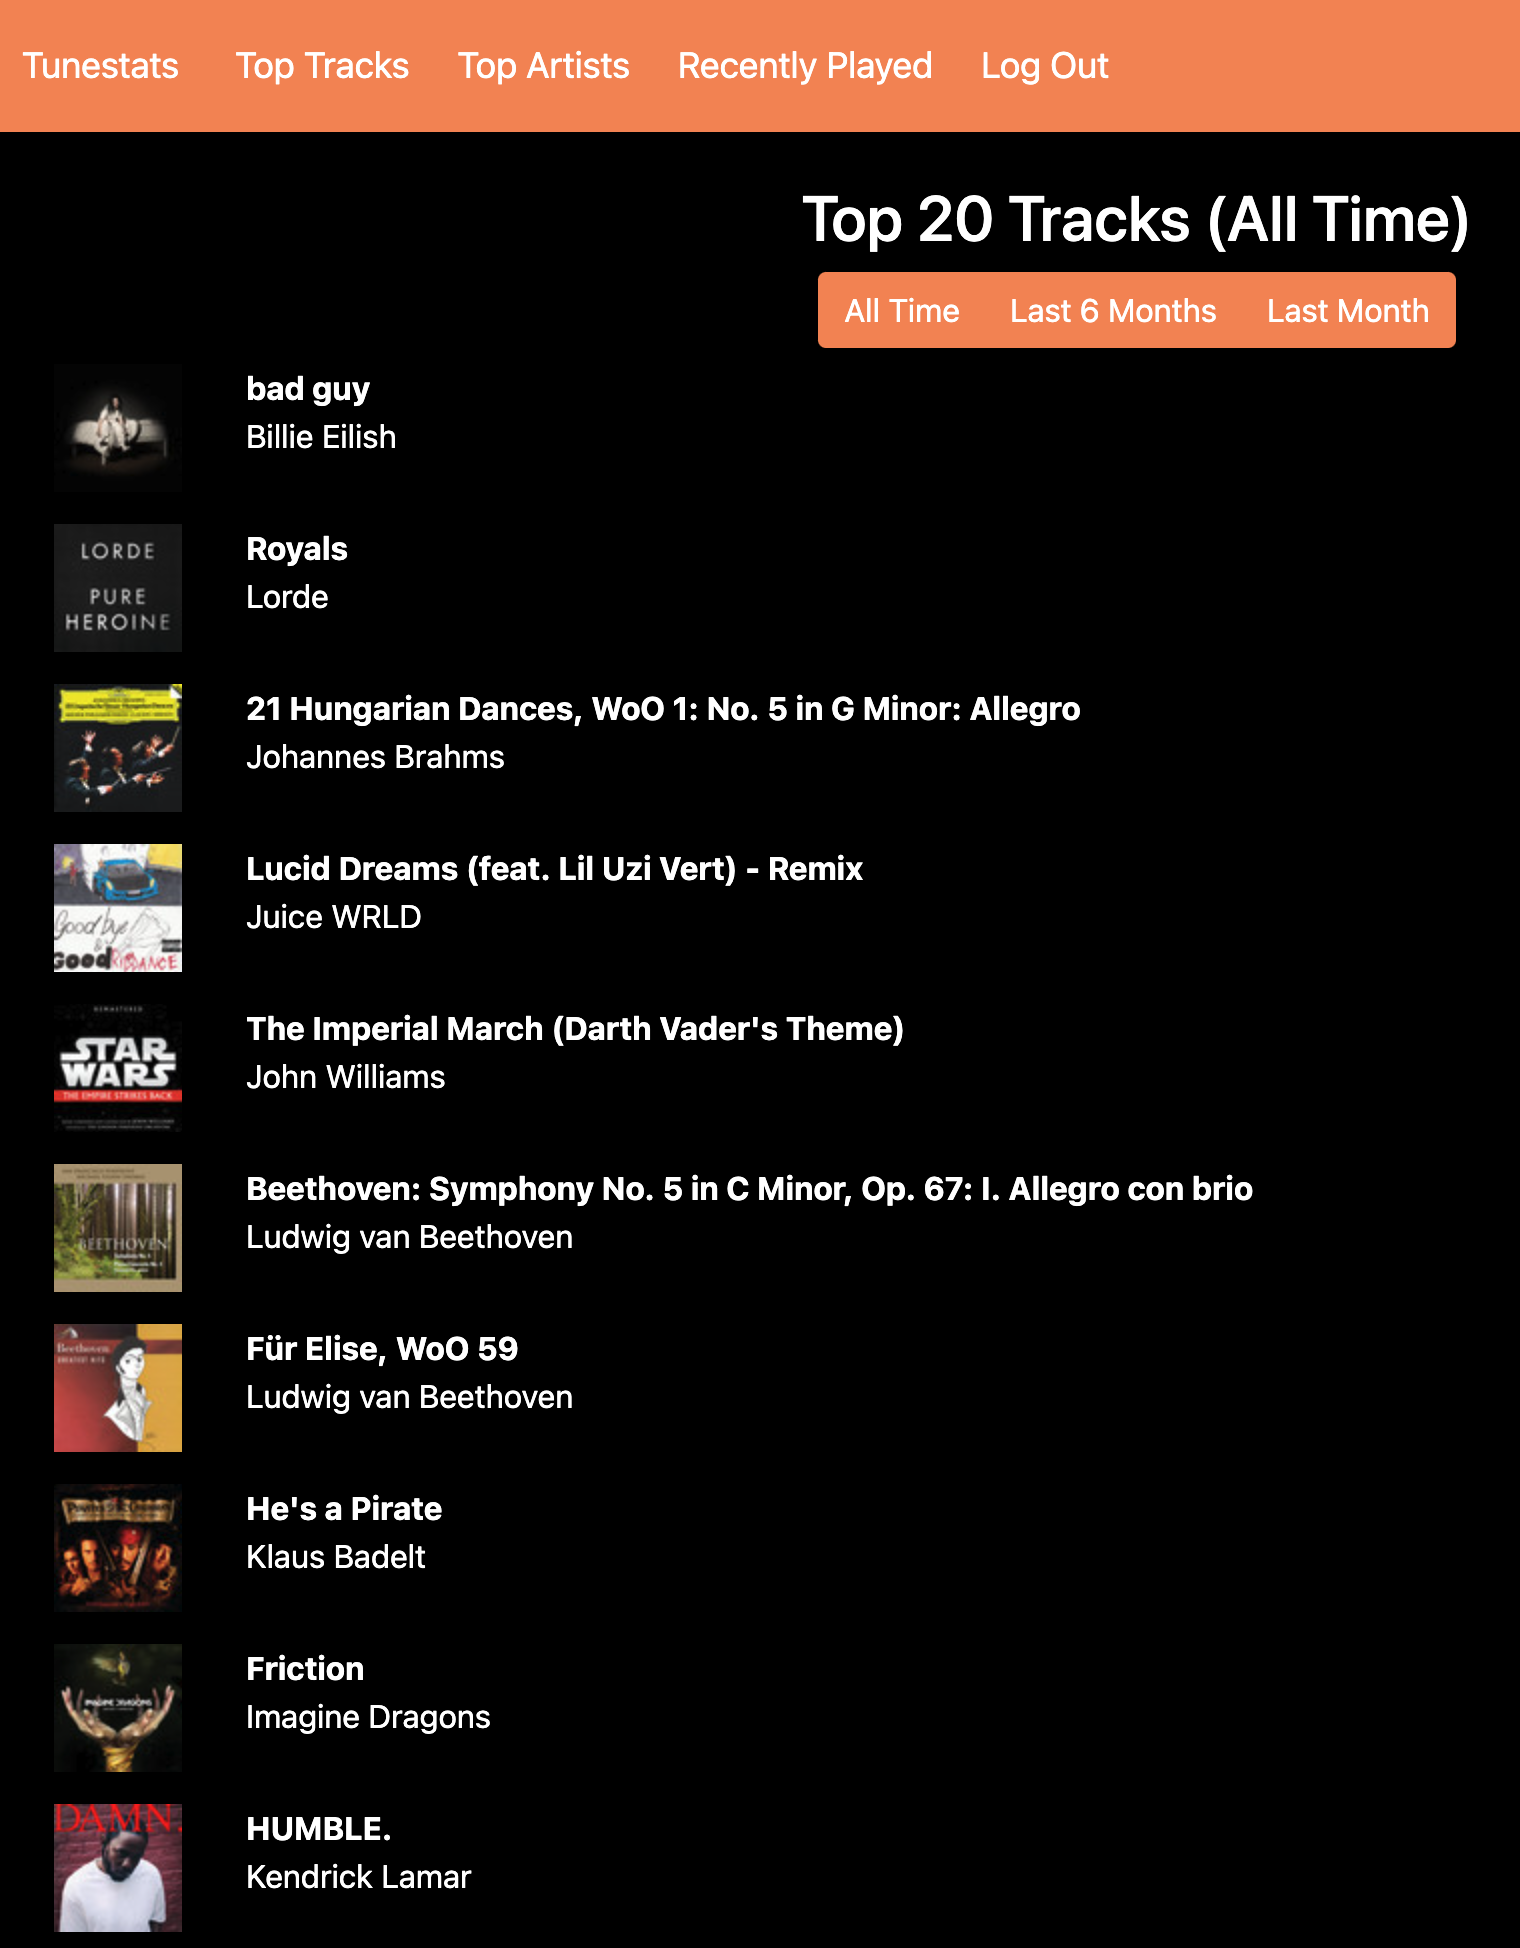
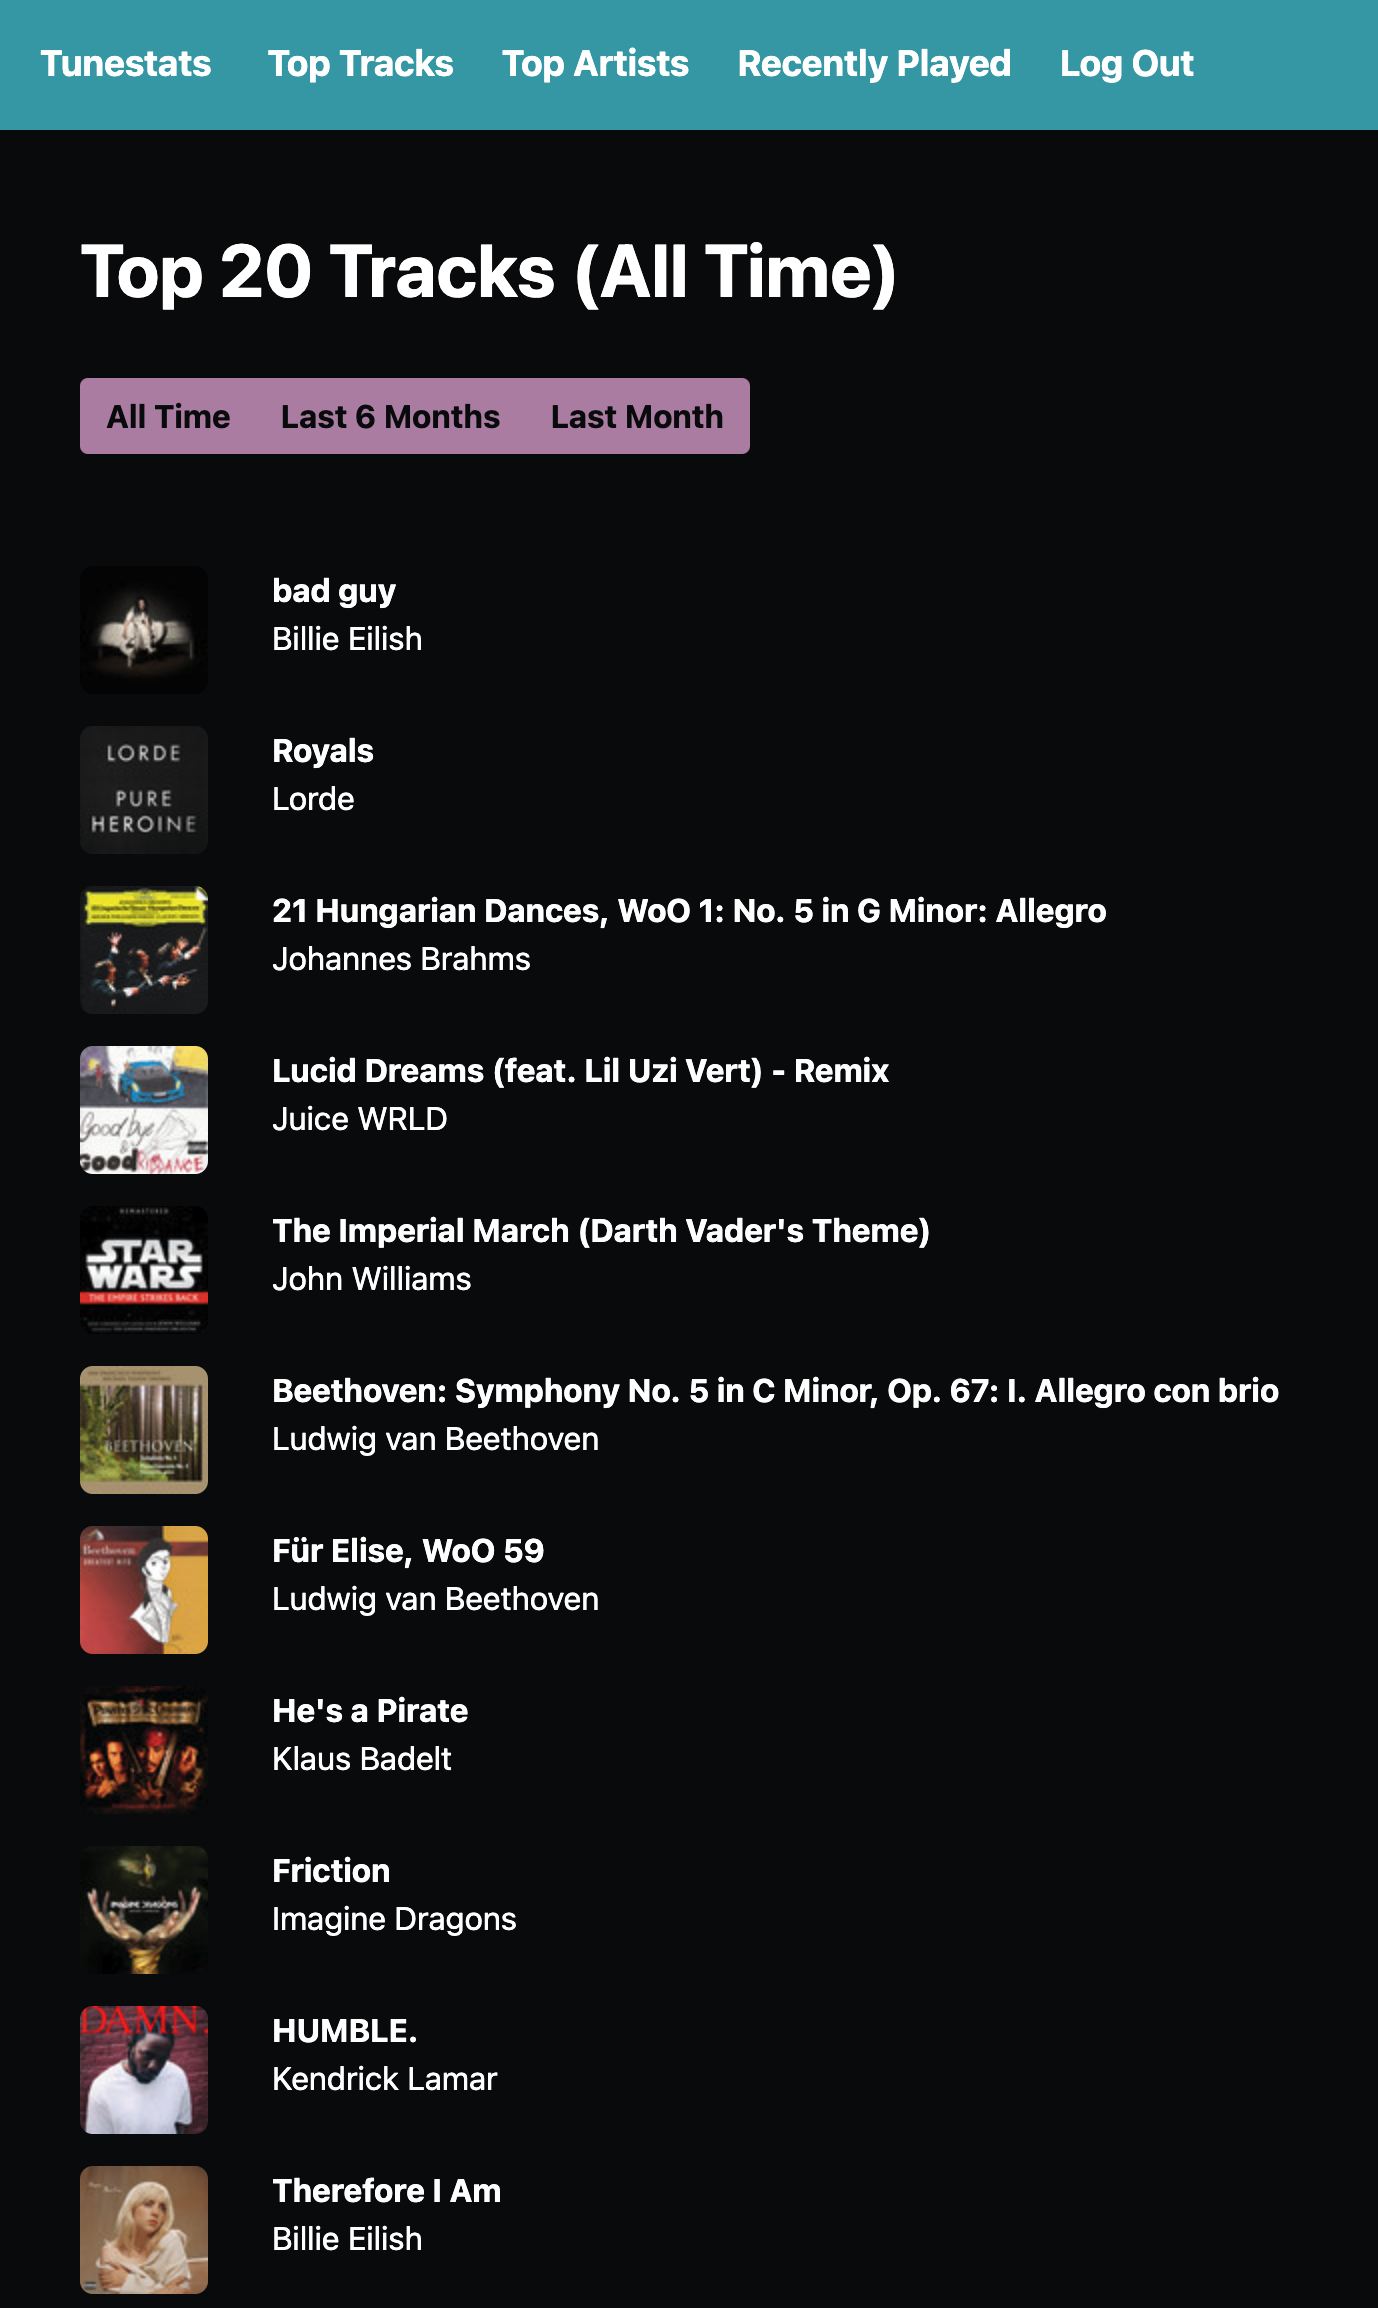
slighy UI edits

Changed region(s): [[0.0, 0.0, 1.0, 1.0], [0.312, 0.8316, 0.3433, 0.8624]]

diff --git a/client/src/assets/style.css b/client/src/assets/style.css
@@ -13,16 +13,17 @@ nav, a{
   background-color: #39A2AE !important;
 }
 
+nav {
+  font-weight: bold;
+}
+
 img {
-  border-radius: 5%;
+  border-radius: 10%;
 }
 
 h1 {
   font-size: 3.2em;
-}
-
-h2 {
-  text-align: center;
+  font-weight: bold;
 }
 
 li {
@@ -30,7 +31,7 @@ li {
 }
 
 li:hover {
-  color: #39A2AE !important;
+  color: #B486AB !important;
 }
 
 a {
@@ -65,7 +66,7 @@ svg:hover {
 }
 
 .greentext {
-  color: #39A2AE;
+  color: #B486AB;
   font-size: 20px !important;
 }
 
@@ -81,7 +82,12 @@ svg:hover {
 
 .login-button {
   font-size: 20px !important;
-  border-color: #050609;
+  font-weight: bold;
+  color: #050609 !important;
+}
+
+.login-button:hover {
+  color: #ffffff !important;
 }
 
 .nav:hover {
@@ -95,9 +101,37 @@ p, a {
 
 .btn-clr {
   background-color: #B486AB;
-  color: #050609
+  color: #050609;
+  font-weight: bold;
 }
 
 .btn-clr:hover {
   color: #ffffff;
+}
+
+.btn-clr:active {
+  background-color: #39A2AE;
+}
+
+.demo_img {
+  border-radius: 1%;
+}
+
+.artist_size {
+  font-size: 18px !important;
+}
+
+.h2_p_left {
+  padding-left: 30px;
+}
+
+.h2_main {
+  padding-left: 30px;
+  font-weight: bold;
+  font-size: 2.3em;
+}
+
+.logo_cursor {
+  padding-left: 10px;
+  cursor: default
 }

diff --git a/client/src/components/SongDisplay.js b/client/src/components/SongDisplay.js
@@ -9,7 +9,7 @@ class SongDisplay extends React.Component {
       <div>
         {this.props.data.map((a, i) => <ListGroup className='list-group' key={i}>
           <a href={a.uri} target='_blank' rel="noreferrer">
-            <ListGroupItem className='list-group-item'>
+            <ListGroupItem className='list-group-item h2_p_left'>
               <div className='row'>
                 <div className='col col-auto'>
                   <img className='cropped' src={a.url} alt={a.name + "album image"} />
@@ -17,7 +17,7 @@ class SongDisplay extends React.Component {
                 <div className='col textsize'>
                   <div className='ms-2 me-auto'>
                     <div className='fw-bold'>{a.name}</div>
-                    {a.artist}
+                    <p>{a.artist}</p>
                   </div>
                 </div>
               </div>

diff --git a/client/src/components/Titles.js b/client/src/components/Titles.js
@@ -5,10 +5,12 @@ class Titles extends React.Component {
   render() {
 
     return (
-      <div className="text-center">
-        {this.props.condition === 'all' && <h2>Top 20 {this.props.title} (All Time)</h2>}
-        {this.props.condition === 'six' && <h2>Top 20 {this.props.title} (Last 6 Months)</h2>}
-        {this.props.condition === 'last' && <h2>Top 20 {this.props.title} (Last Month)</h2>}
+      <div>
+        <br></br>
+        {this.props.condition === 'all' && <h2 className="h2_main">Top 20 {this.props.title} (All Time)</h2>}
+        {this.props.condition === 'six' && <h2 className="h2_main">Top 20 {this.props.title} (Last 6 Months)</h2>}
+        {this.props.condition === 'last' && <h2 className="h2_main">Top 20 {this.props.title} (Last Month)</h2>}
+        <br></br>
       </div>
     )
   }

diff --git a/client/src/components/Login.js b/client/src/components/Login.js
@@ -19,7 +19,7 @@ class Login extends React.Component {
         <br></br>
         <br></br>
 
-        <h2>View your top songs, artists, and recently played songs!</h2>
+        <h2 className="h2_home">View your top songs, artists, and recently played songs!</h2>
         <h2>Please login with your Spotify account using the button above to begin</h2>
 
         <br></br>
@@ -28,7 +28,7 @@ class Login extends React.Component {
         <div className="container">
           <Row>
             <Col md="6">
-              <img src={demo} alt='demo image' width='80%'></img>
+              <img src={demo} alt='demo image' className='demo_img' width='80%'></img>
             </Col>
             <Col md="6">
               <h2>Simple and Secure</h2>

diff --git a/client/src/components/NavBar.js b/client/src/components/NavBar.js
@@ -20,7 +20,7 @@ class NavBar extends React.Component {
   render() {
     return (
       <Navbar expand="md">
-        <NavbarBrand className="brand-size" href="#">Tunestats</NavbarBrand>
+        <NavbarBrand className="brand-size logo_cursor" href="#">Tunestats</NavbarBrand>
         <NavbarToggler onClick={this.toggle}>
           <svg xmlns="http:www.w3.org/2000/svg" width="24" height="24" fill="currentColor" className="bi bi-list" viewBox="0 0 16 16">
             <path fillRule="evenodd" d="M2.5 12a.5.5 0 0 1 .5-.5h10a.5.5 0 0 1 0 1H3a.5.5 0 0 1-.5-.5zm0-4a.5.5 0 0 1 .5-.5h10a.5.5 0 0 1 0 1H3a.5.5 0 0 1-.5-.5zm0-4a.5.5 0 0 1 .5-.5h10a.5.5 0 0 1 0 1H3a.5.5 0 0 1-.5-.5z" />

diff --git a/client/src/components/SmallButtonGroup.js b/client/src/components/SmallButtonGroup.js
@@ -5,12 +5,13 @@ class SmallButtonGroup extends React.Component {
 
   render() {
     return (
-      <div className='text-center'>
+      <div className="h2_p_left">
         <div className="btn-group" role="group">
           <SmallButton link={() => this.props.link1()} name='All Time' />
           <SmallButton link={() => this.props.link2()} name='Last 6 Months' />
           <SmallButton link={() => this.props.link3()} name='Last Month' />
         </div>
+        <br></br>
         <br></br>
         <br></br>
       </div>
